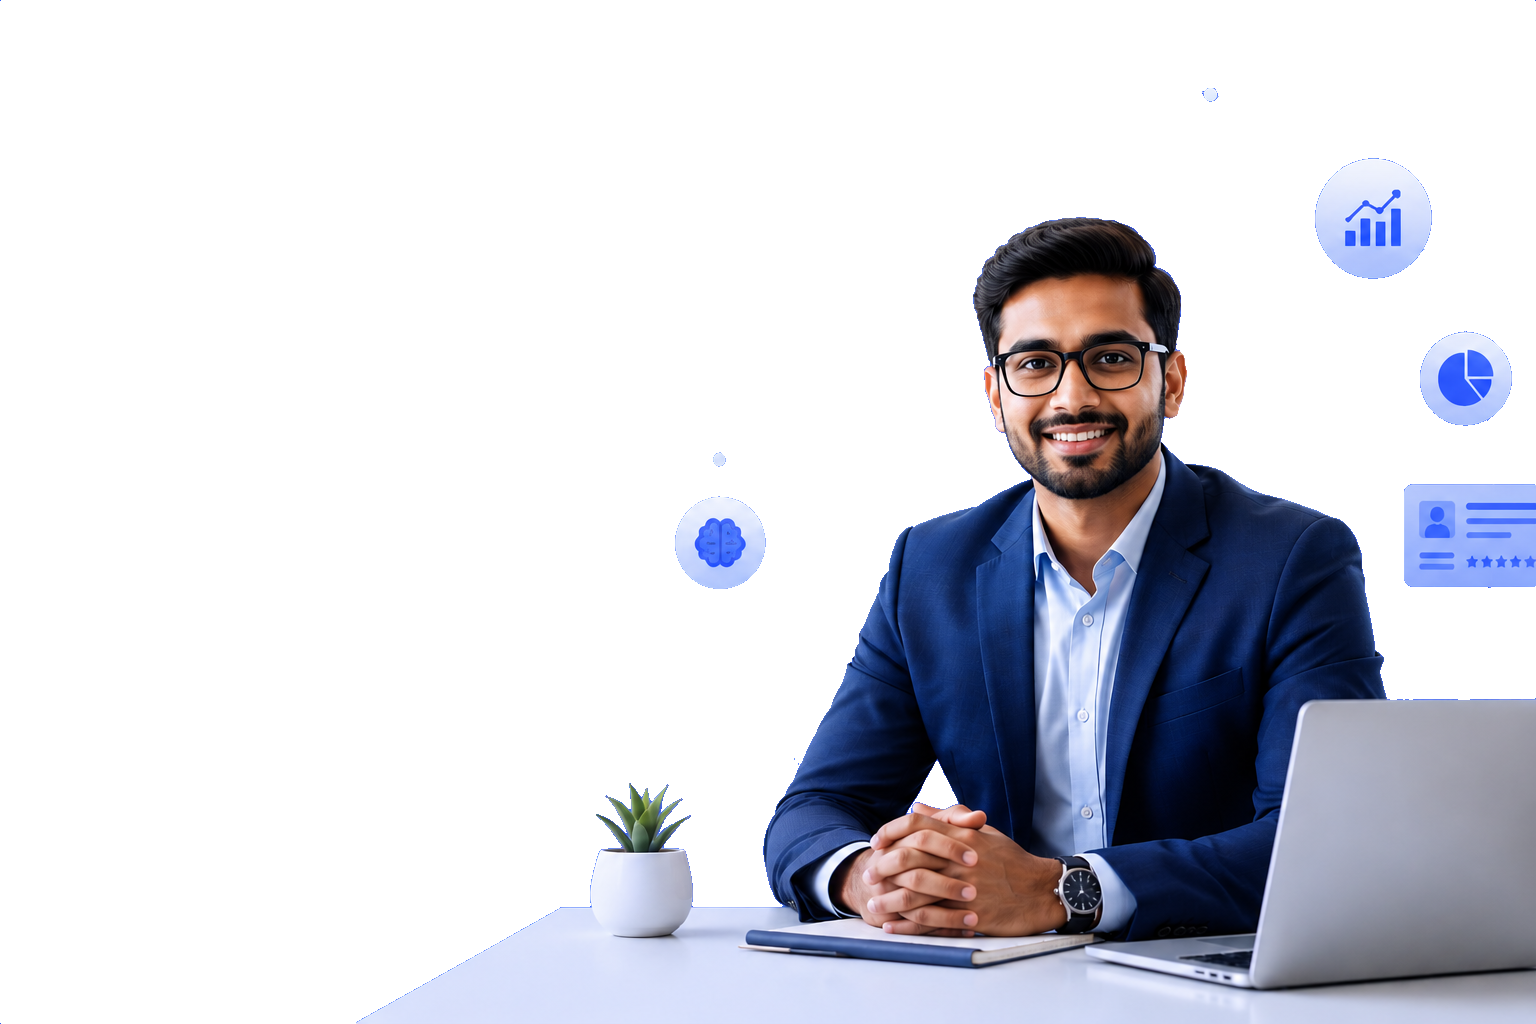
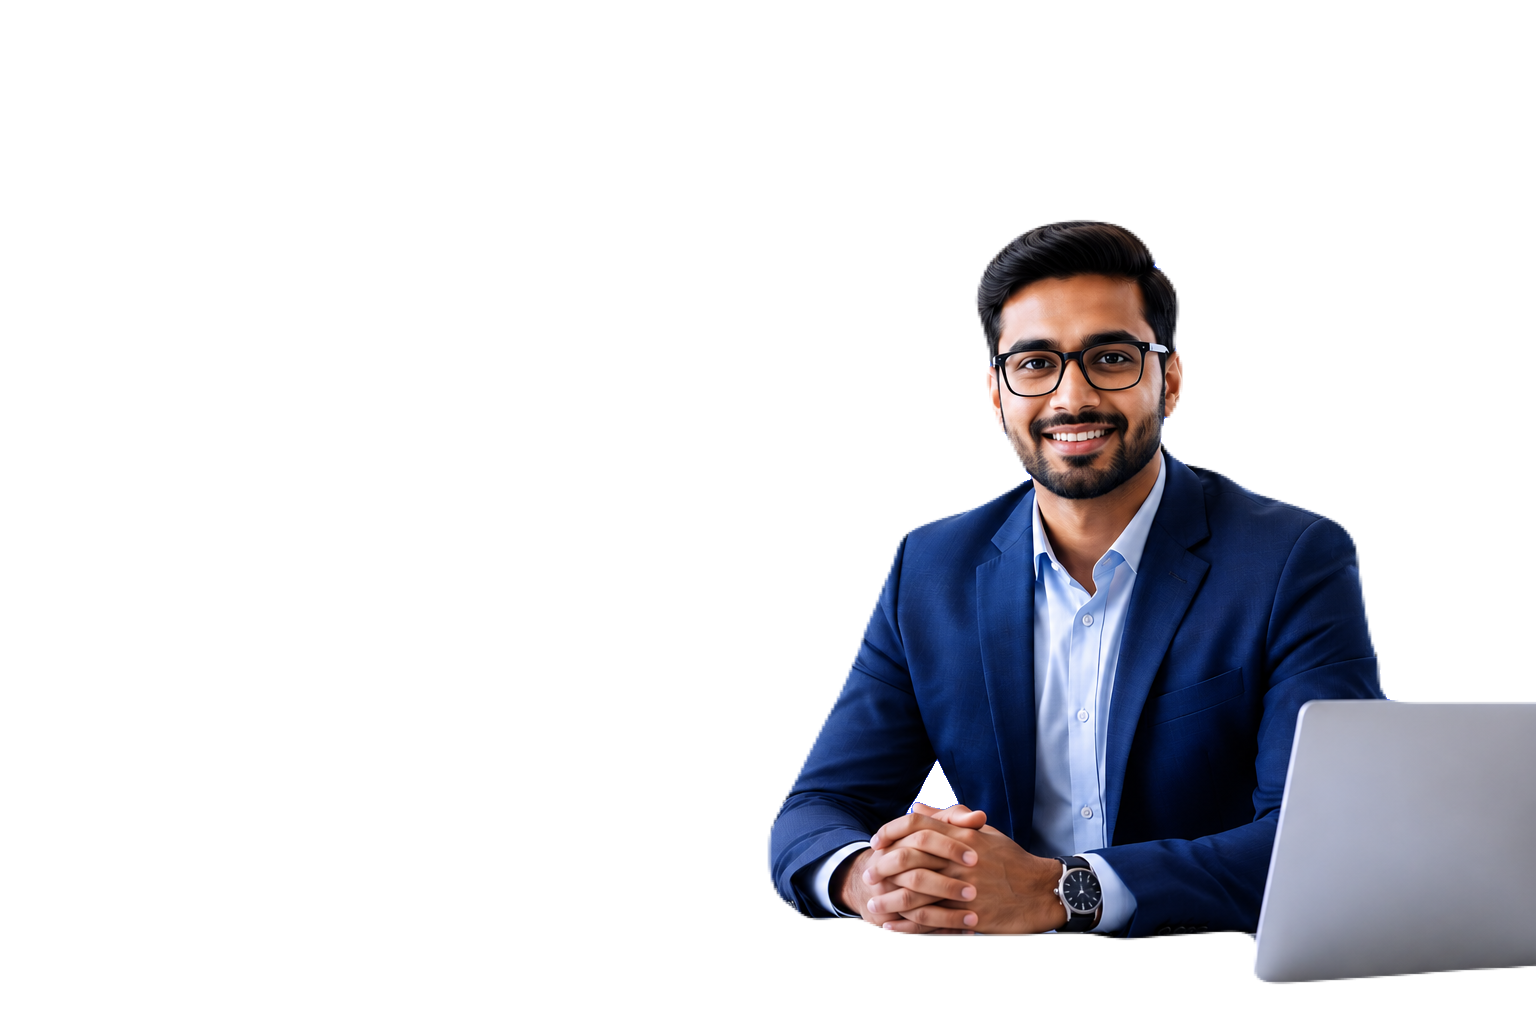
updated navbar responsive issue

diff --git a/client/src/Components/Navbar.jsx b/client/src/Components/Navbar.jsx
@@ -57,53 +57,69 @@ const Navbar = () => {
         variants={containerVariants}
         className="bg-white text-black w-full sticky top-0 z-50 border-b border-[var(--color-border)] hidden md:block"
       >
-        <div className="max-w-[110rem] mx-auto px-42 flex items-center justify-between h-20">
-          <motion.div variants={itemVariants} className="flex items-center gap-2">
-            <Logo className="h-12 text-[var(--color-primary)]" />
-          </motion.div>
+        <div className="max-w-7xl mx-auto w-full px-4 sm:px-6 lg:px-8">
+  <div className="flex items-center justify-between h-20">
 
-          <ul className="flex items-center gap-6">
-            {navLinks.map((link) => (
-              <motion.li variants={itemVariants} key={link.name} className="relative">
-                {link.path !== '#' ? (
-                  <Link
-                    to={link.path}
-                    className="px-3 py-2 block transition-all duration-150 ease-in-out font-bold text-[var(--color-primary)] hover:text-[var(--color-primary)]"
-                  >
-                    {link.name}
-                  </Link>
-                ) : (
-                  <a
-                    href={link.path}
-                    onClick={(e) => {
-                      e.preventDefault();
-                    }}
-                    className="px-3 py-2 block transition-all duration-150 ease-in-out font-bold text-[var(--color-primary)] hover:text-[var(--color-primary)]"
-                  >
-                    {link.name}
-                  </a>
-                )}
-                {activeTab === link.name && (
-                  <motion.div
-                    layoutId="active-underline"
-                    className="absolute left-1 right-1 bottom-0 h-[10px] border-b-[3px] border-[var(--color-primary)] rounded-[3px]"
-                    transition={{ type: 'spring', stiffness: 350, damping: 30 }}
-                    initial={false}
-                  />
-                )}
-              </motion.li>
-            ))}
-          </ul>
+    {/* Logo */}
+    <motion.div
+      variants={itemVariants}
+      className="flex-shrink-0"
+    >
+      <Logo className="h-10 xl:h-12 text-[var(--color-primary)]" />
+    </motion.div>
 
-          <motion.div variants={itemVariants} className="flex items-center gap-4">
-            <Link
-              to="/contact"
-              className="btn"
-            >
-              Contact Us
-            </Link>
-          </motion.div>
-        </div>
+    {/* Navigation */}
+    <ul className="hidden lg:flex items-center whitespace-nowrap gap-3 xl:gap-6">
+      {navLinks.map((link) => (
+        <motion.li
+          variants={itemVariants}
+          key={link.name}
+          className="relative"
+        >
+          <Link
+            to={link.path}
+            className="
+              px-2 xl:px-3
+              py-2
+              text-sm xl:text-base
+              font-bold
+              text-[var(--color-primary)]
+              transition-all
+            "
+          >
+            {link.name}
+          </Link>
+
+          {activeTab === link.name && (
+            <motion.div
+              layoutId="active-underline"
+              className="absolute left-1 right-1 bottom-0 h-[10px] border-b-[3px] border-[var(--color-primary)] rounded-[3px]"
+            />
+          )}
+        </motion.li>
+      ))}
+    </ul>
+
+    {/* CTA */}
+    <motion.div
+      variants={itemVariants}
+      className="hidden lg:flex items-center"
+    >
+      <Link
+        to="/contact"
+        className="btn text-sm xl:text-base"
+      >
+        Contact Us
+      </Link>
+    </motion.div>
+
+    {/* Mobile Menu Button */}
+    <button className="lg:hidden">
+      ☰
+    </button>
+
+  </div>
+</div>
       </motion.nav>
 
       {/* Mobile Navbar */}

diff --git a/client/src/index.css b/client/src/index.css
@@ -8,8 +8,8 @@
   --font-secondary: "Inter", sans-serif;
 
   /* Brand Colors */
-  --color-primary: #012a59;
-  --color-primary-hover: #3652F5;
+  --color-primary: #012959;
+  --color-primary-hover: #01193a;
 
   /* Background Colors */
   --color-main-bg: #FFFFFF;
